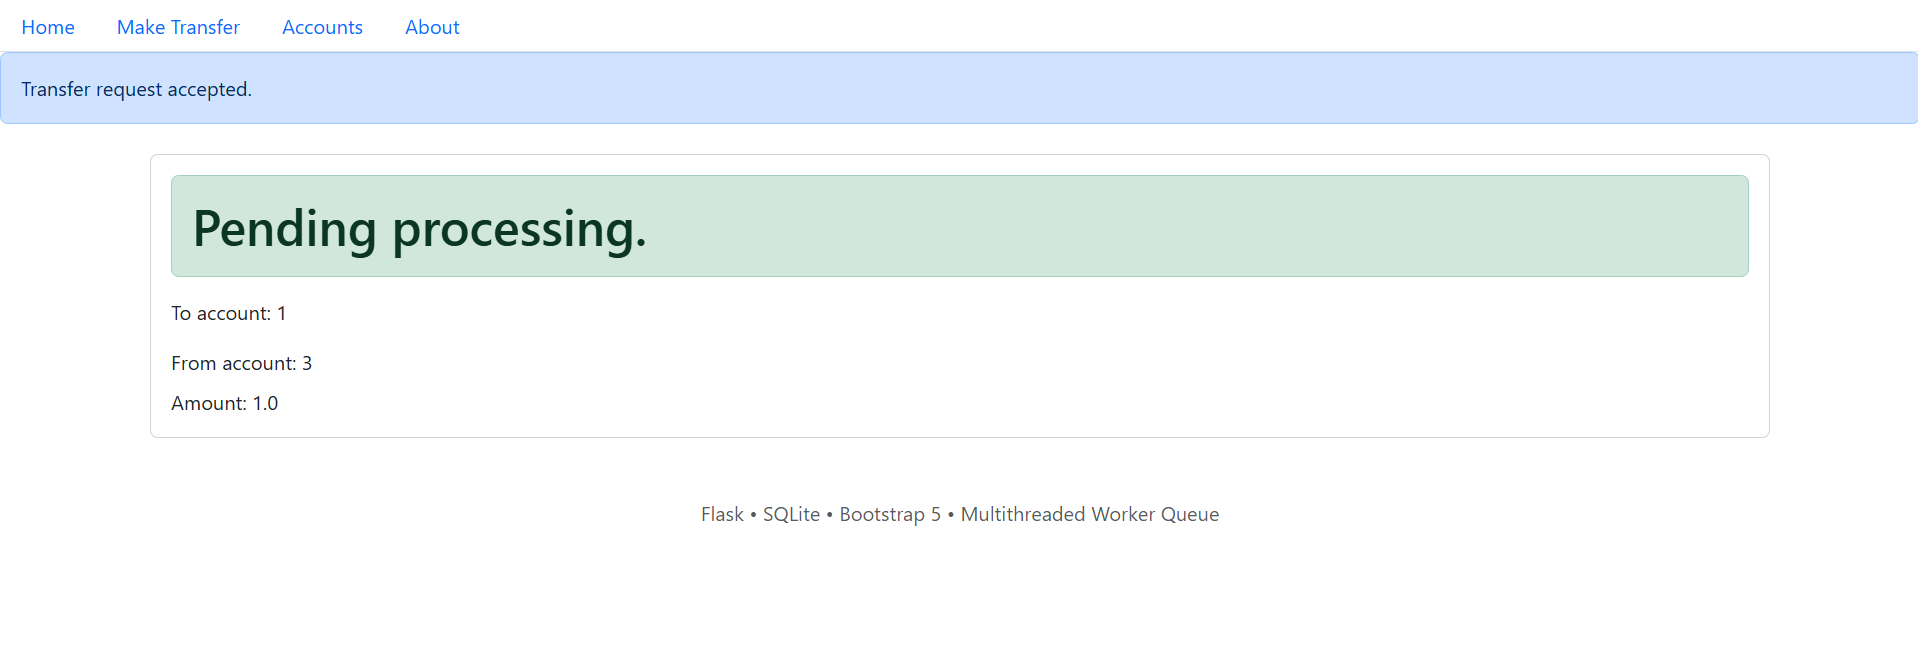
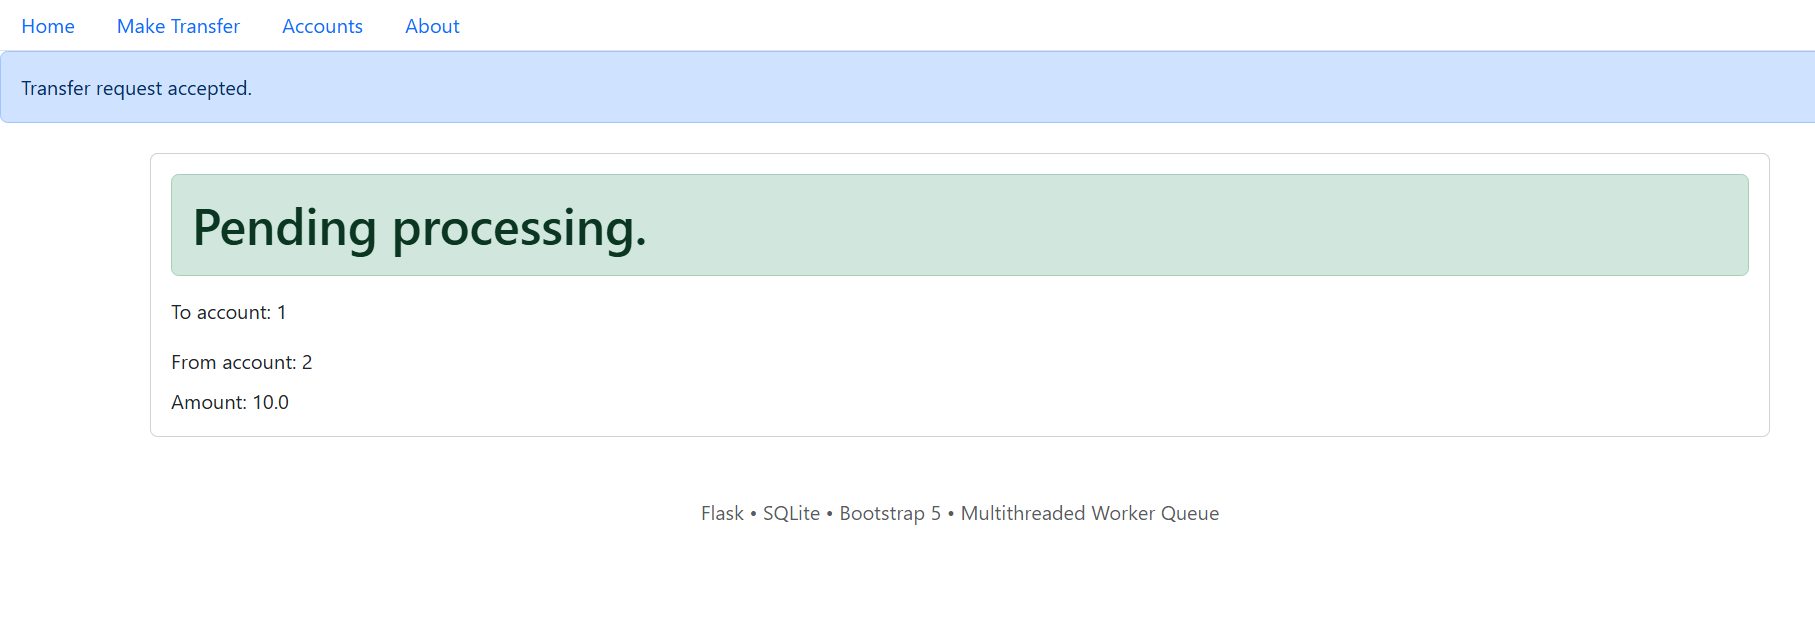
updated readme and screenshots

diff --git a/README.md b/README.md
@@ -76,8 +76,6 @@ Transfer:
 Account Details:  
 ![Account Detail View](screenshots/detailview.png)  
 
-
-
 ## Future Improvements
 If I were to improve this project for the future, here are a list of things I would implement:  
 1. Persistent queue system  